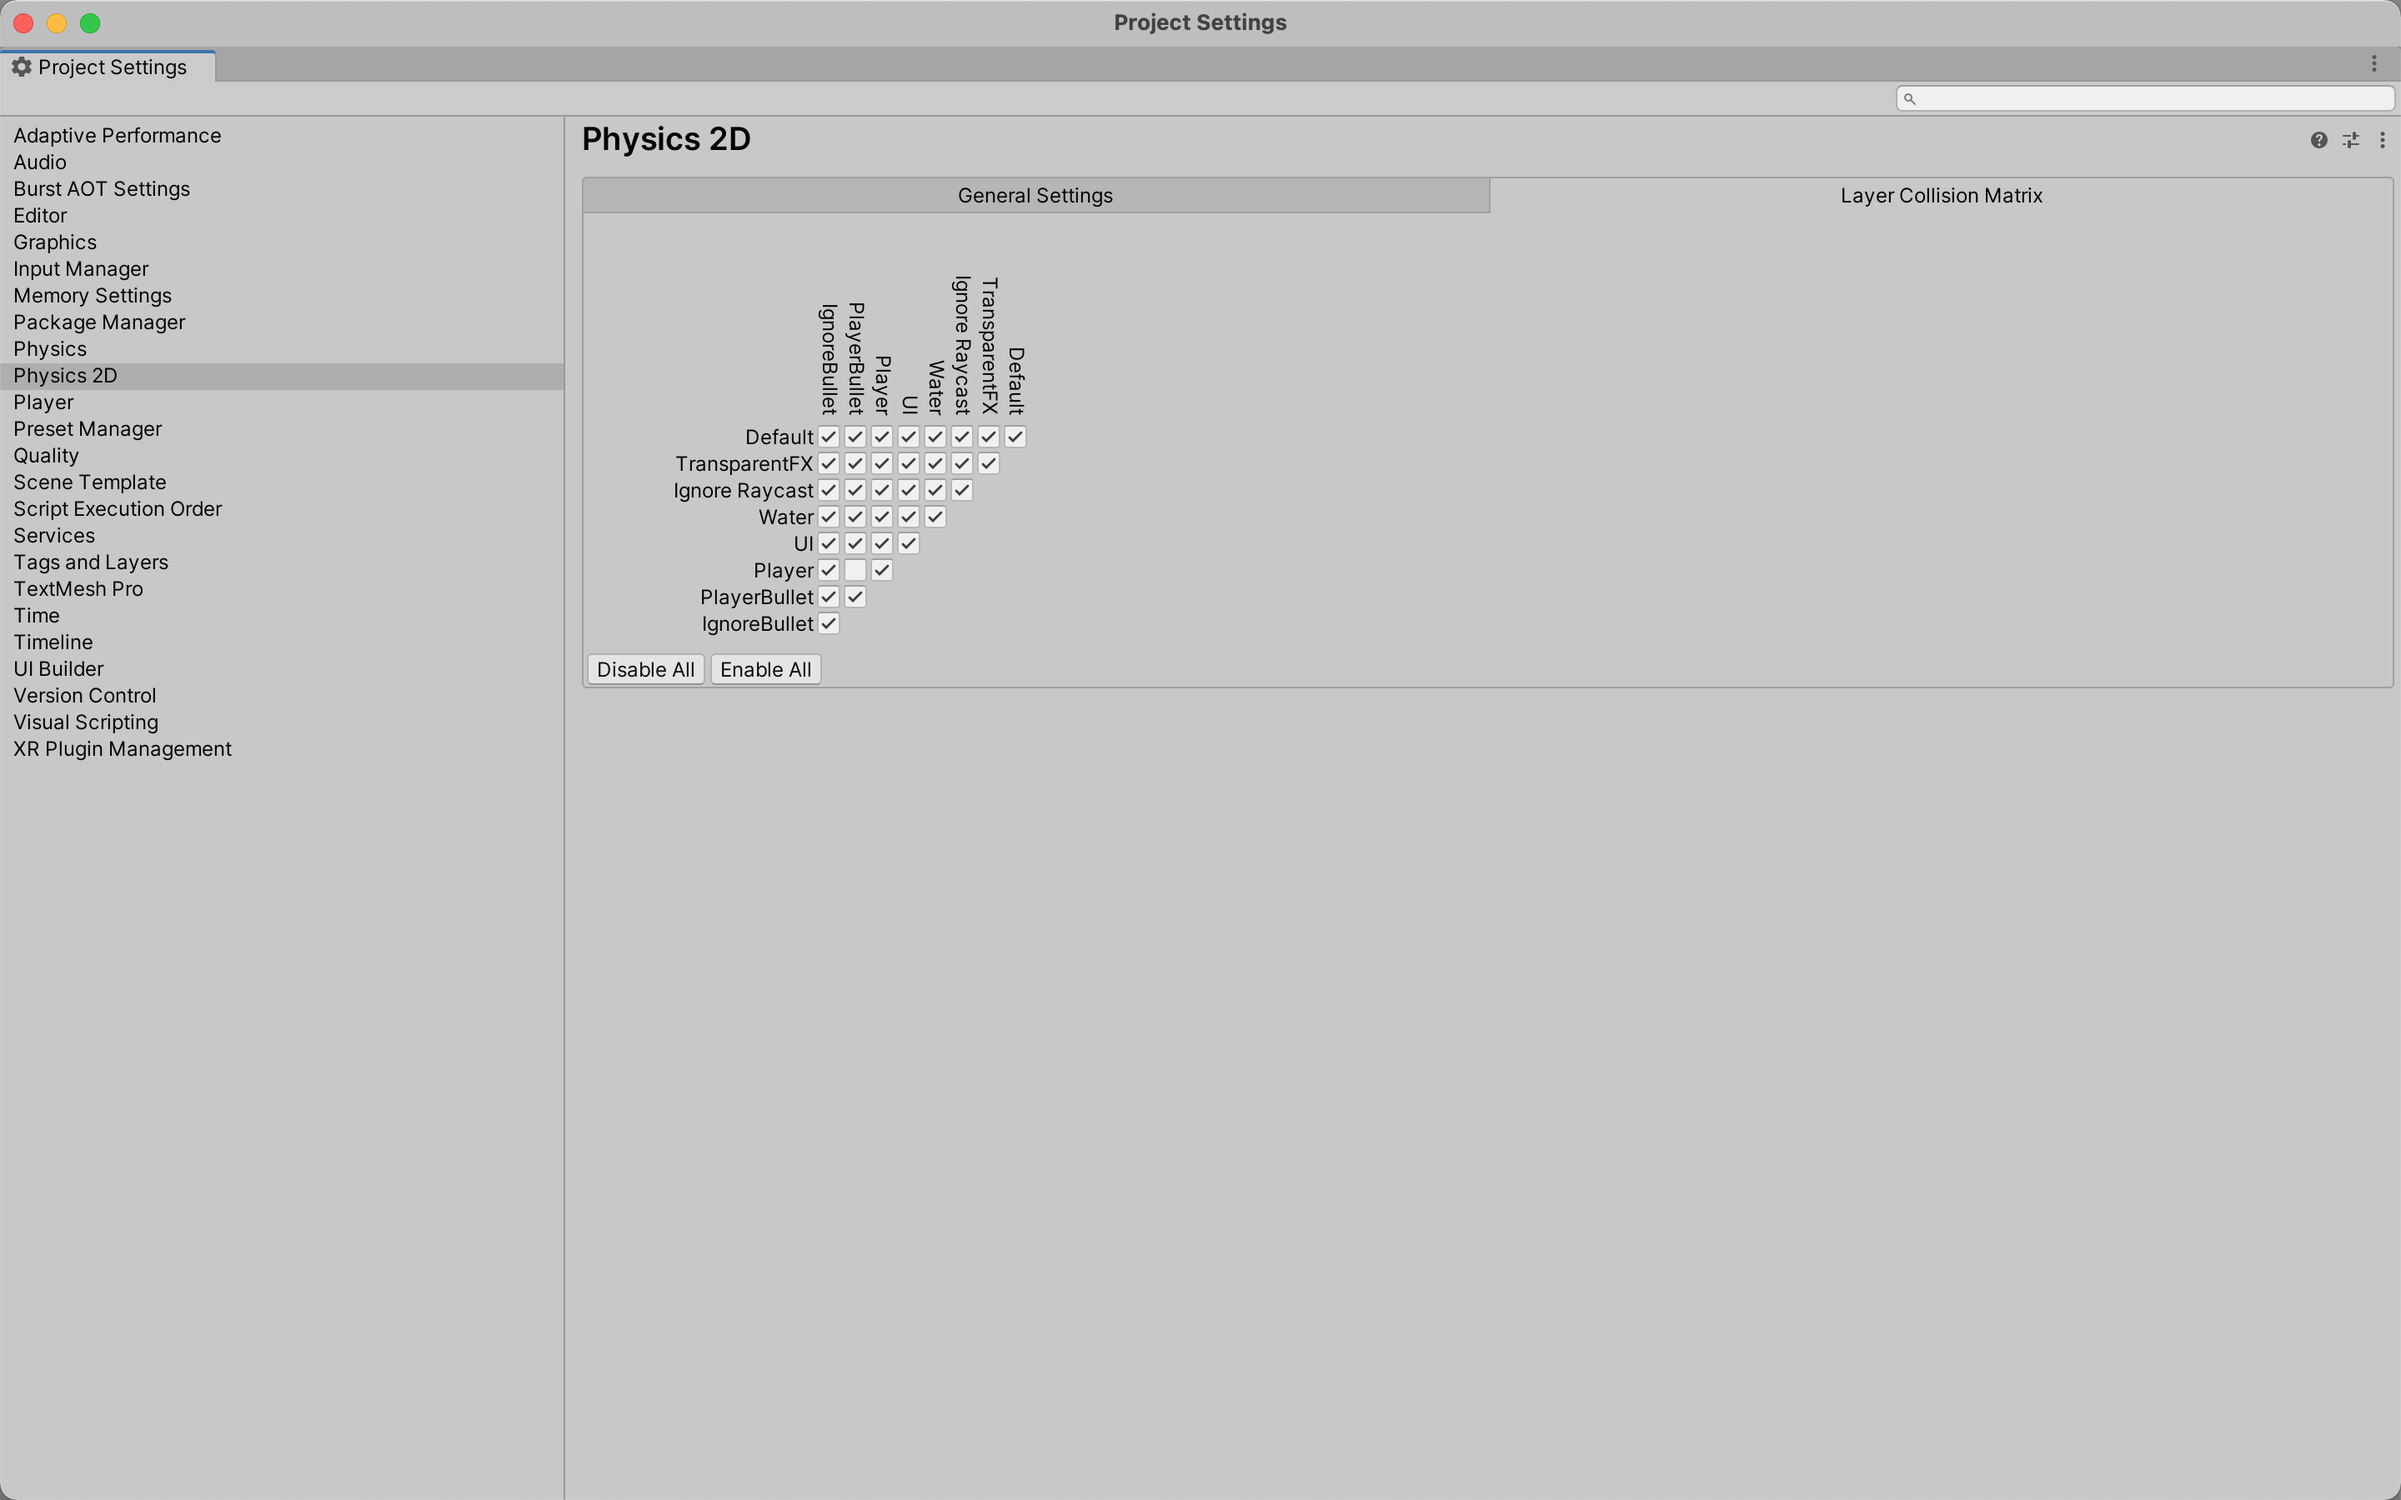
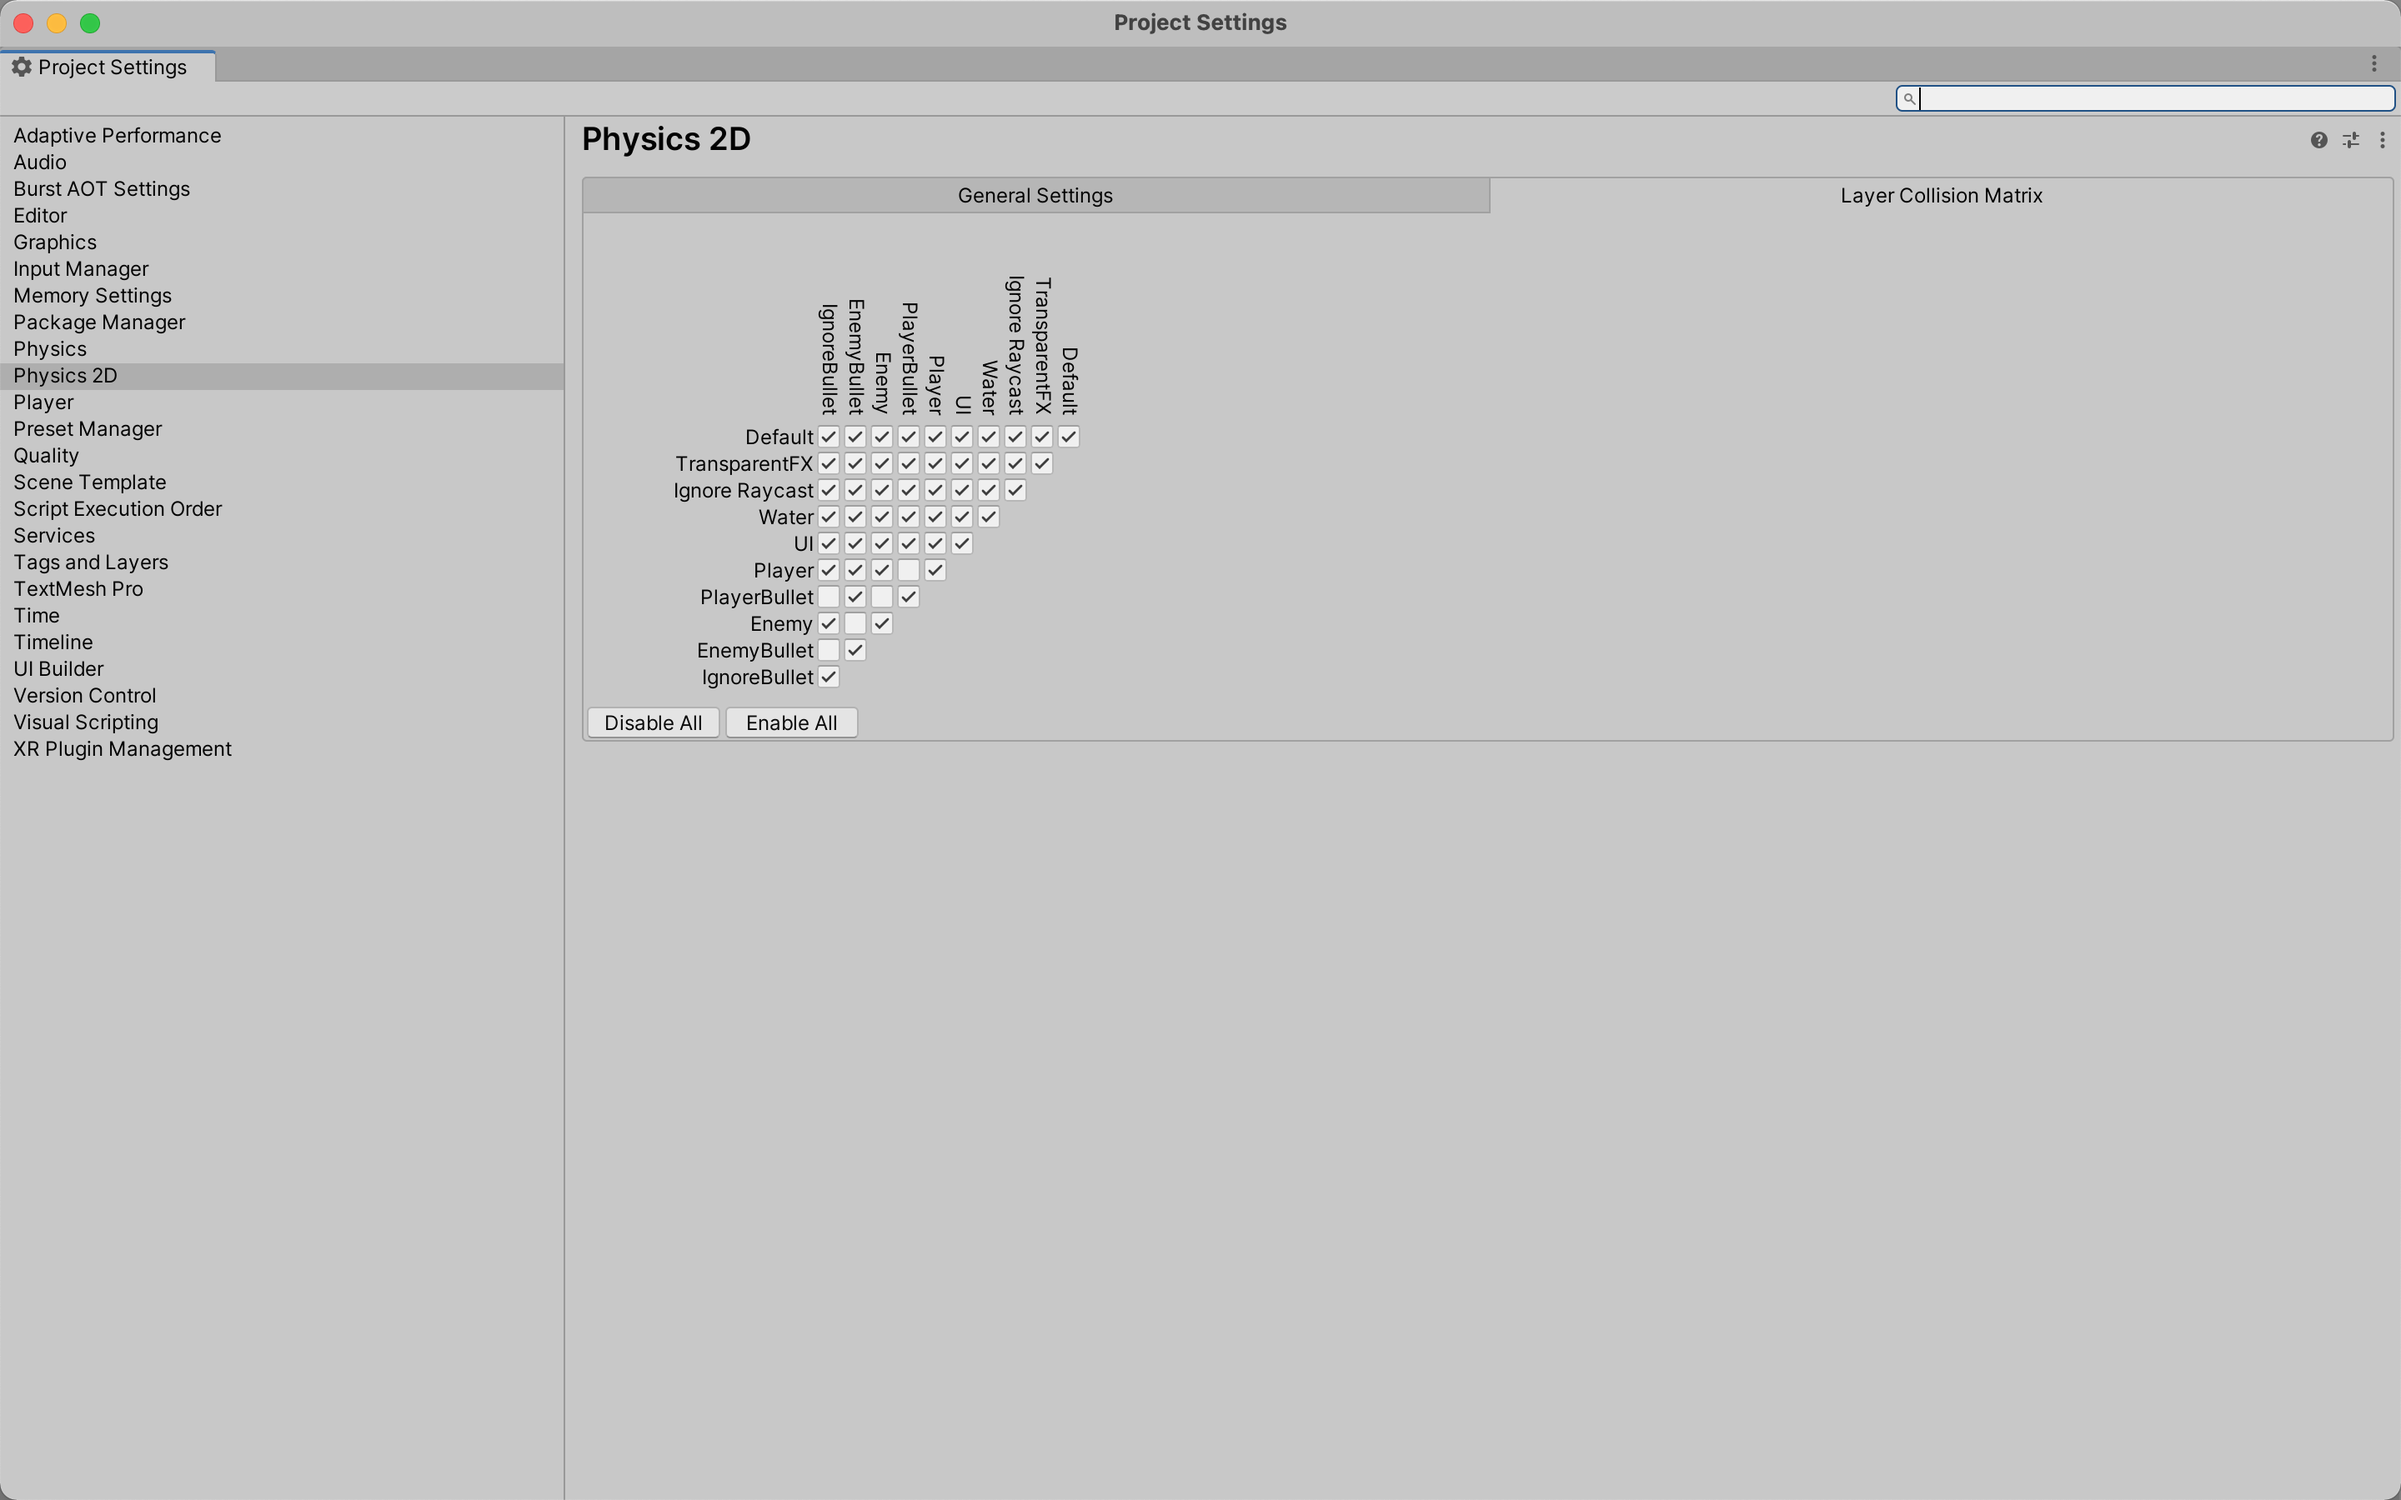
update

Changed region(s): [[0.2188, 0.3422, 0.4062, 0.4978], [0.3438, 0.1867, 0.4688, 0.3422]]

diff --git a/lecture-notes/10-room-random-generation.md b/lecture-notes/10-room-random-generation.md
@@ -1,0 +1,152 @@
+## Week 09
+
+## Previous Class
+
+Link to the previous class: [Week 08](https://github.com/otago-polytechnic-bit-courses/ID623001-introductory-game-development/blob/main-s1-25/lecture-notes/08-animation-tilemaps-tile-palettes.md)
+
+---
+
+## Rogue-Like Game
+
+In this module, you will continue to develop **Rogue-Like** using Unity.
+
+> **Note:** The following content does not take into account last week's formative assessment. Please ensure you have completed the formative assessment before continuing with this week's content. 
+
+---
+
+## Random Generation
+
+**Random Generation** is a technique used in game development to create content that is not pre-defined. This can include levels, items, enemies and more. 
+
+In the **Hierarchy** window, remove the `SampleScene`. Create a new **Scene** called `GenerationTest`. In the **Assets > Art > Map** folder, drag and drop `Map_Rooms_15` into the **Hierarchy** window. This will create a new **Game Object** called `Map_Rooms_15`.
+
+![](../resources/img/10-images/10-image-1.png)
+
+In the **Hierarchy** window, create a new **Game Object** called `LevelGenerator` and a child **Game Object** called `GenerationPoint`. The `LevelGenerator` will be responsible for generating the levels, while the `GenerationPoint` will be used to determine where the next room will be generated.
+
+![](../resources/img/10-images/10-image-2.png)
+
+Rename `Map_Rooms_15` to `RoomLayout` and drag and drop it into the **Prefabs > Rooms** folder. Delete the `RoomLayout` from the **Hierarchy** window.
+
+![](../resources/img/10-images/10-image-3.png)
+
+In the **Assets > Scripts** folder, create a new script called `LevelGenerator` and attach it to the `LevelGenerator` **Game Object**. 
+
+![](../resources/img/10-images/10-image-4.png)
+
+Open the script and add the following code:
+
+```cs
+// Omitted for brevity
+
+public class LevelGenerator : MonoBehaviour
+{
+    [SerializeField] private GameObject roomLayout;
+    [SerializeField] private int distanceToEnd;
+    [SerializeField] private Transform generationPoint;
+
+    private Color startColor = Color.blue;
+    private Color endColor = Color.red;
+
+    void Start()
+    {
+        GameObject room = Instantiate(roomLayout, generationPoint.position, generationPoint.rotation);
+        SpriteRenderer sr = room.GetComponent<SpriteRenderer>();
+        if (sr != null)
+        {
+            sr.color = startColor;
+        }
+    }
+}
+```
+
+Click on the `LevelGenerator` **Game Object** and in the **Inspector** window, drag and drop the `RoomLayout` **Prefab** into the `Room Layout` field, set the `Distance To End` to `10` and drag and drop the `GenerationPoint` **Game Object** into the `Generation Point` field.
+
+![](../resources/img/10-images/10-image-5.png)
+
+Click on the `Play` button. You should see a blue room appear in the **Scene** window.
+
+---
+
+## More Rooms
+
+Currently, the `LevelGenerator` only generates one room. You need to write the code to generate more rooms. In the `LevelGenerator` script, add the following code:
+
+
+```cs
+// Omitted for brevity
+using UnityEngine.SceneManagement;
+
+public class LevelGenerator : MonoBehaviour
+{
+    // Omitted for brevity
+
+    [SerializeField] private enum Direction
+    {
+        Up,
+        Down,
+        Left,
+        Right
+    }
+    [SerializeField] private Direction direction;
+    [SerializeField] private float xOffset = 18f;
+    [SerializeField] private float yOffset = 10f;
+
+    void Start()
+    {
+        // Omitted for brevity
+
+        direction = (Direction)Random.Range(0, 4);
+        MoveGenerationPoint();
+
+        for (int i = 0; i < distanceToEnd; i++)
+        {
+            Instantiate(roomLayout, generationPoint.position, generationPoint.rotation);
+
+            direction = (Direction)Random.Range(0, 4);
+            MoveGenerationPoint();
+        }
+    }
+
+    void Update()
+    {
+        if (Input.GetKeyDown(KeyCode.R))
+        {
+            SceneManager.LoadScene(SceneManager.GetActiveScene().name);
+        }
+    }
+
+    private void MoveGenerationPoint()
+    {
+        switch (direction)
+        {
+            case Direction.Up:
+                generationPoint.position += new Vector3(0, yOffset, 0);
+                break;
+            case Direction.Down:
+                generationPoint.position += new Vector3(0, -yOffset, 0);
+                break;
+            case Direction.Left:
+                generationPoint.position += new Vector3(-xOffset, 0, 0);
+                break;
+            case Direction.Right:
+                generationPoint.position += new Vector3(xOffset, 0, 0);
+                break;
+        }
+    }
+}
+```
+
+What is happening in the code above?
+
+- `Direction` enum is used to determine the direction in which the next room will be generated.
+- `direction` variable is used to store the current direction.
+- `xOffset` and `yOffset` variables are used to determine the distance between the rooms.
+- `MoveGenerationPoint` method is used to move the `GenerationPoint` **Game Object** in the direction specified by the `direction` variable.
+- `Start` method generates the first room and then generates the rest of the rooms in a random direction.
+
+Click on the `Play` button. You should see a series of rooms generated in a random direction. Press `R` to regenerate the rooms.
+
+![](../resources/img/10-images/10-image-6.png)
+
+---

diff --git a/lecture-notes/09-collision-layers.md b/lecture-notes/09-collision-layers.md
@@ -11,6 +11,7 @@ Link to the previous class: [Week 08](https://github.com/otago-polytechnic-bit-c
 In this module, you will continue to develop **Rogue-Like** using Unity.
 
 > **Note:** The following content does not take into account last week's formative assessment. Please ensure you have completed the formative assessment before continuing with this week's content. 
+
 ---
 
 ## Player
@@ -217,6 +218,7 @@ In the **Hierarchy** window, click on any **Game Object**. In the **Inspector** 
 In the **Project Settings** window, click on **Physics 2D**. In the **Layer Collision Matrix**, uncheck the following boxes:
 
 - Player and PlayerBullet
+- PlayerBullet and PlayerBullet
 
 ![](../resources/img/09-images/09-image-8.png)
 
